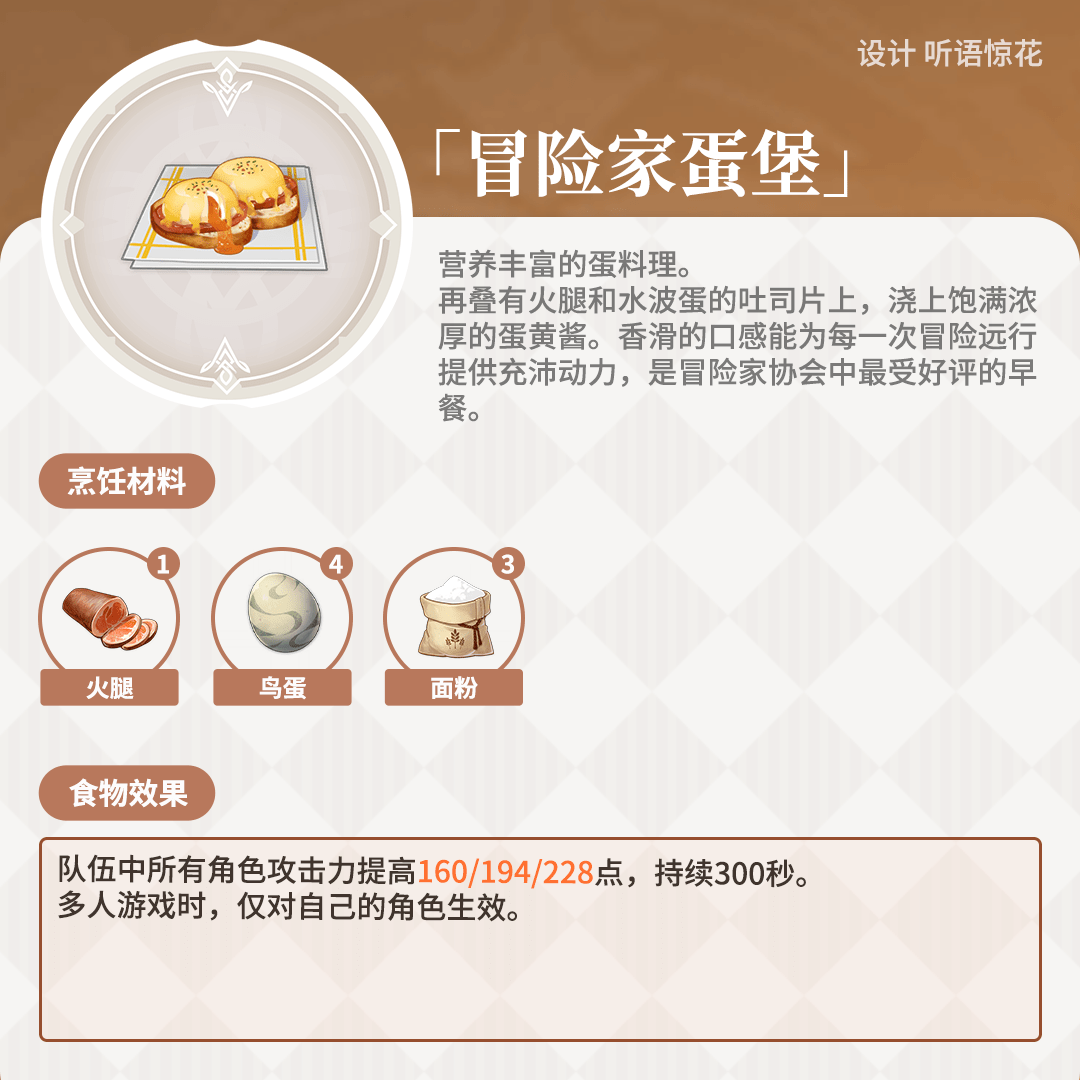
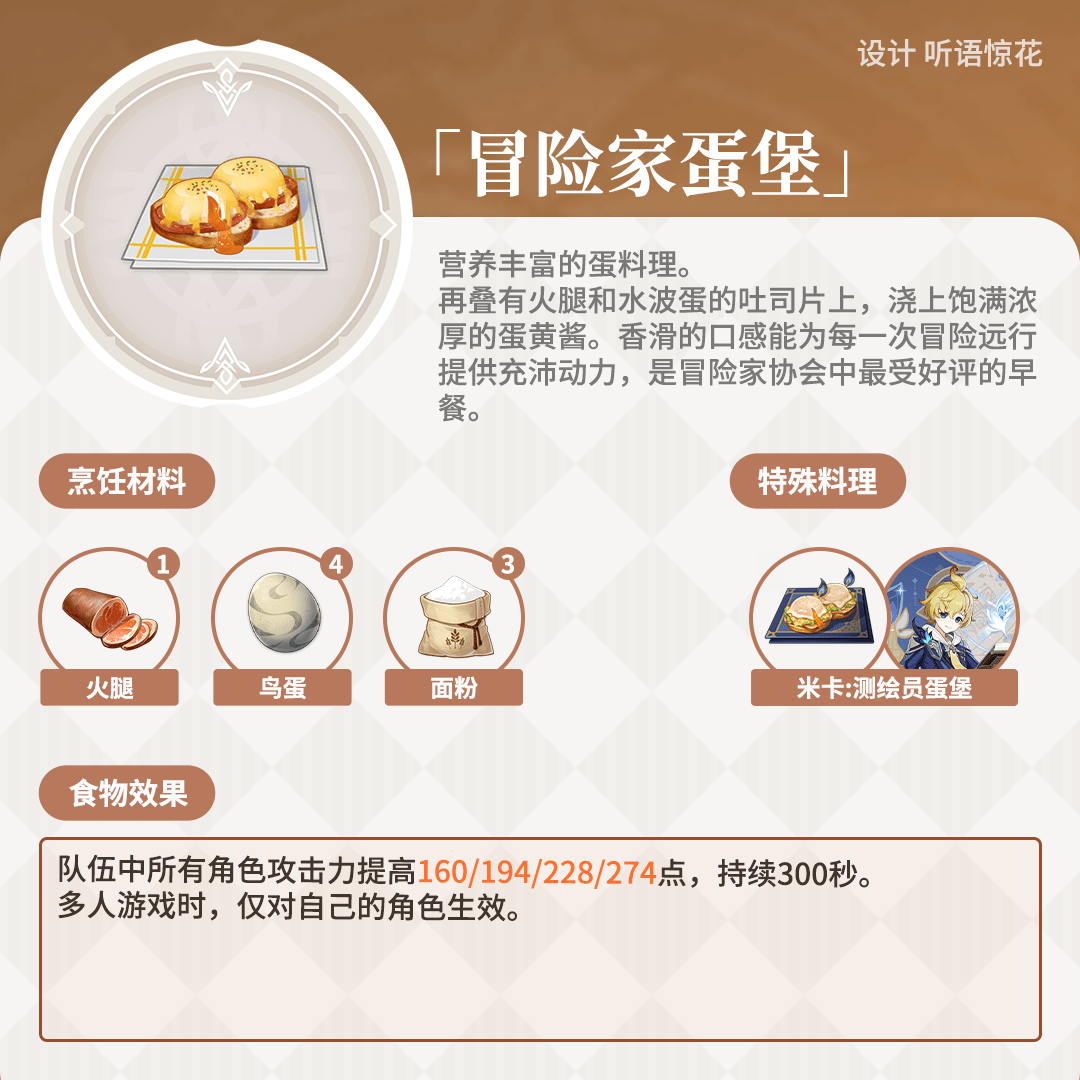
:sparkles: 3.5新食物

Changed region(s): [[0.6722, 0.3972, 0.9472, 0.6722], [0.55, 0.7944, 0.7944, 0.825]]

diff --git a/README.md b/README.md
@@ -6,15 +6,16 @@ Genshin-Atlas是一个主要由[`米游社@听语惊花`](https://bbs.mihoyo.com
 ## 目录结构
 - [x] 武器图鉴（更新至3.6）
 - [x] 角色材料（更新至3.6）
-- [x] 七圣召唤卡牌（更新至3.4）
-- [x] 区域特产（更新至3.4）
+- [x] 七圣召唤卡牌（更新至3.5）
+- [x] 区域特产（更新至3.5）
 - [x] 圣遗物图鉴（更新至3.6）
-- [x] 原魔图鉴（更新至3.4，预计4.3前翻新。由[Csxylic](https://www.miyoushe.com/ys/accountCenter/postList?id=258229537)提供支持）
-- [x] 食物图鉴（更新至3.4）
+- [x] 原魔图鉴（更新至3.5，暂由[Csxylic](https://www.miyoushe.com/ys/accountCenter/postList?id=258229537)提供支持。预计于4.3前翻新）
+- [x] 食物图鉴（更新至3.5）
 
 ## TODO
 
 - [ ] 普通材料 图鉴
+- [ ] 副本掉落 图鉴
 
 注意：请使用根目录下的path.json来获取准确的完整目录。
 
